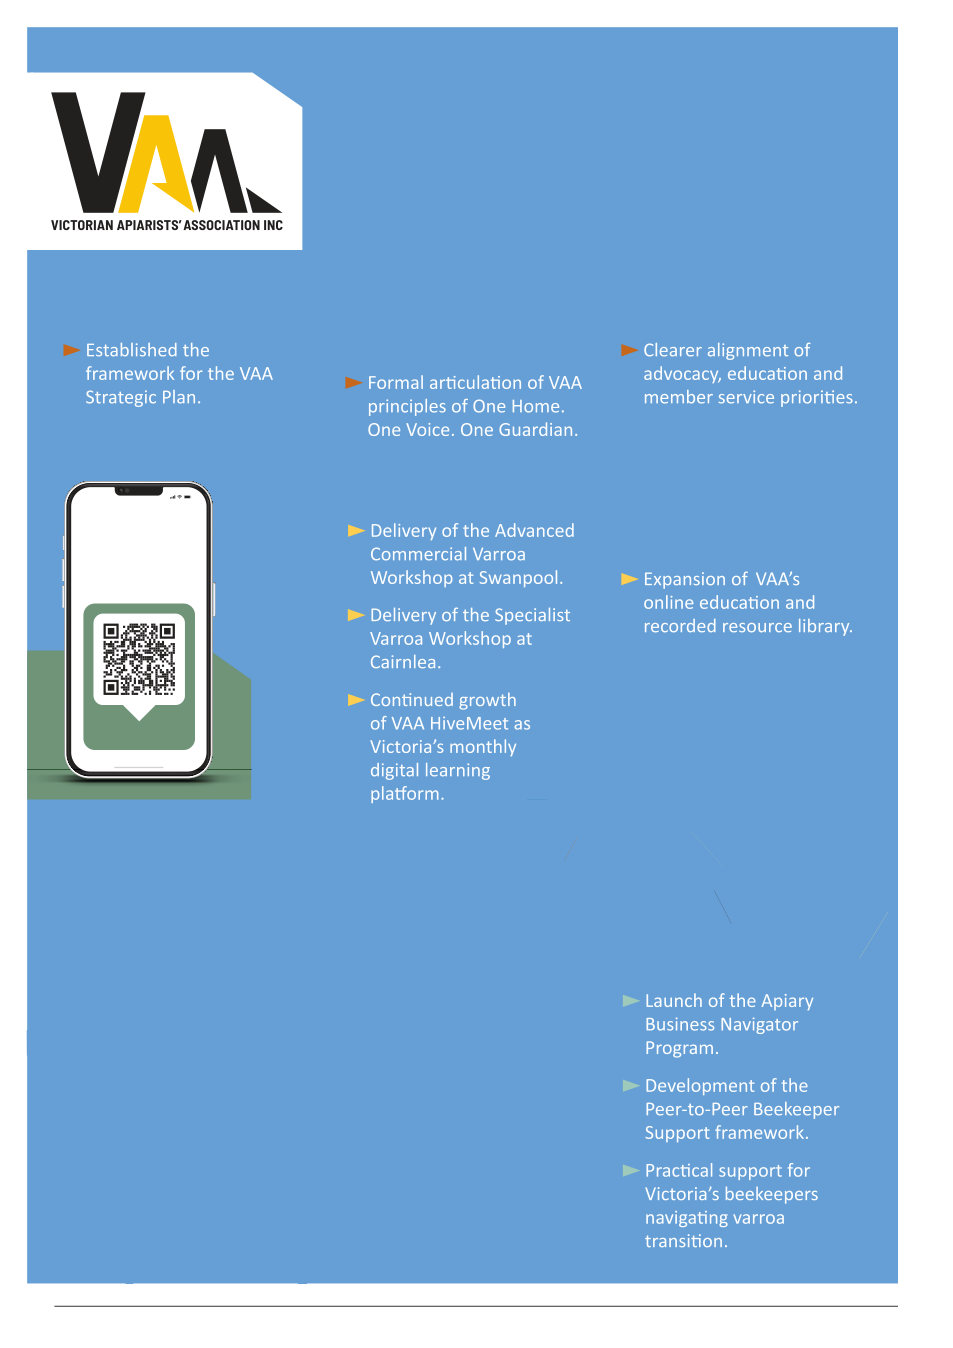
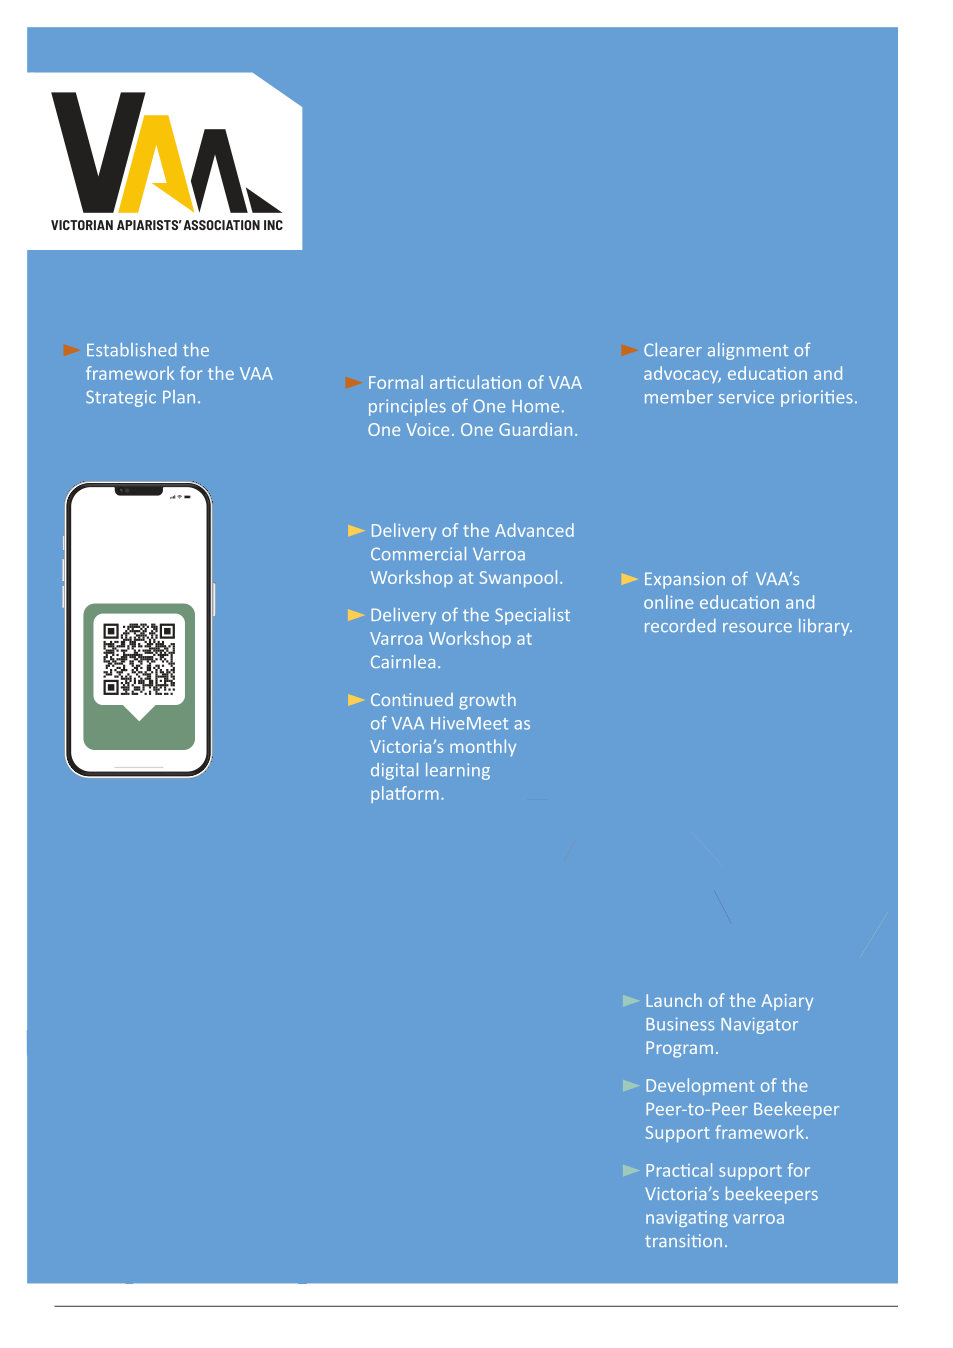
Moving Parts in the ABJ reader

Changed region(s): [[0.0304, 0.4674, 0.2739, 0.592]]

diff --git a/abj/_build/anim_spread.py b/abj/_build/anim_spread.py
@@ -33,6 +33,9 @@ P4 = {
   'drift': [dict(name='petals', ids=list(range(2, 11)))],
   'over': [], 'bg': 'paint', 'shard': True,
   'forage': [dict(cx=80, cy=653, rx=48, ry=48), dict(cx=190, cy=612, rx=58, ry=58)],   # dormant while the shard is on
+  # taken out of the reader's copy of the page for good: the muddy green chamfered box behind the
+  # HiveMeet phone (drawing 125) and the soft shadow that went with it (form XObject Fm1)
+  'remove': dict(drawings=[125], xobjects=['Fm1']),
 }
 P5 = {
   'plants': [
@@ -227,11 +230,32 @@ def cut_drawings(bp, ids):
     bp.parent.update_stream(xref, c)
     return missing
 
+def cut_xobject_calls(bp, names):
+    """Remove `q ... /Name Do Q` from the page content stream for each named form XObject
+    (an image, shading or group placed on the page). Returns the names not found."""
+    bp.clean_contents()
+    xref = bp.get_contents()[0]; c = bp.read_contents(); missing = []
+    for name in names:
+        j = c.find(b'/' + name.encode() + b' Do')
+        if j < 0: missing.append(name); continue
+        s0 = c.rfind(b' q ', 0, j); e0 = c.find(b'Q', j)
+        if s0 < 0 or e0 < 0 or c.count(b' q ', s0 + 1, j): missing.append(name); continue   # nested: leave it alone
+        c = c[:s0 + 1] + c[e0 + 1:]
+    bp.parent.update_stream(xref, c)
+    return missing
+
 def paintout(bp, spec):
     """Take the moving paths out of the background copy of the page, before its raster is made.
     Returns the untouched page's drawings (the overlay is built from these, by index)."""
     drs = bp.get_drawings()
     ids = sorted(moving_ids(spec))
+    rm = spec.get('remove') or {}
+    if rm.get('drawings'):
+        missing = cut_drawings(bp, rm['drawings'])
+        if missing: raise RuntimeError('anim: could not remove drawings %s' % missing)
+    if rm.get('xobjects'):
+        missing = cut_xobject_calls(bp, rm['xobjects'])
+        if missing: raise RuntimeError('anim: could not remove xobjects %s' % missing)
     if spec.get('bg') == 'cut':
         missing = cut_drawings(bp, ids)
         if missing: raise RuntimeError('anim: could not cut drawings %s from the page stream' % missing)
